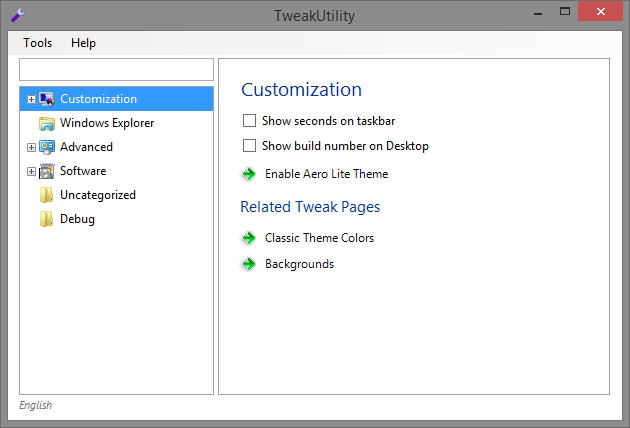
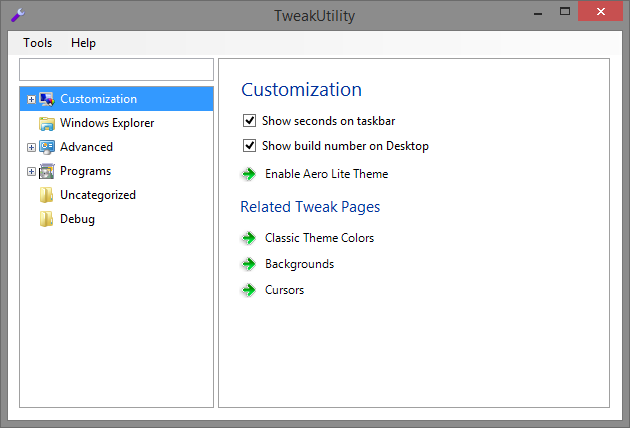
remove debug-only "English" thing in corner and update readme

diff --git a/TweakUtility/Forms/MainForm.Designer.cs b/TweakUtility/Forms/MainForm.Designer.cs
@@ -43,7 +43,6 @@ namespace TweakUtility.Forms
             this.myExtensionsToolStripMenuItem = new System.Windows.Forms.ToolStripMenuItem();
             this.helpToolStripMenuItem = new System.Windows.Forms.ToolStripMenuItem();
             this.aboutToolStripMenuItem = new System.Windows.Forms.ToolStripMenuItem();
-            this.debugTranslation = new System.Windows.Forms.Label();
             ((System.ComponentModel.ISupportInitialize)(this.splitContainer)).BeginInit();
             this.splitContainer.Panel1.SuspendLayout();
             this.splitContainer.Panel2.SuspendLayout();
@@ -71,7 +70,7 @@ namespace TweakUtility.Forms
             this.splitContainer.Panel2.Controls.Add(this.startupLabel);
             this.splitContainer.Panel2.Padding = new System.Windows.Forms.Padding(1);
             this.splitContainer.Panel2.Paint += new System.Windows.Forms.PaintEventHandler(this.SplitContainer_BorderPaint);
-            this.splitContainer.Size = new System.Drawing.Size(591, 337);
+            this.splitContainer.Size = new System.Drawing.Size(591, 350);
             this.splitContainer.SplitterDistance = 195;
             this.splitContainer.TabIndex = 1;
             this.splitContainer.SplitterMoved += new System.Windows.Forms.SplitterEventHandler(this.SplitContainer_SplitterMoved);
@@ -118,7 +117,7 @@ namespace TweakUtility.Forms
             this.startupLabel.ForeColor = System.Drawing.SystemColors.GrayText;
             this.startupLabel.Location = new System.Drawing.Point(1, 1);
             this.startupLabel.Name = "startupLabel";
-            this.startupLabel.Size = new System.Drawing.Size(390, 335);
+            this.startupLabel.Size = new System.Drawing.Size(390, 348);
             this.startupLabel.TabIndex = 3;
             this.startupLabel.Text = "Navigate to a page to get started!";
             this.startupLabel.TextAlign = System.Drawing.ContentAlignment.MiddleCenter;
@@ -153,21 +152,21 @@ namespace TweakUtility.Forms
             // preferencesToolStripMenuItem
             // 
             this.preferencesToolStripMenuItem.Name = "preferencesToolStripMenuItem";
-            this.preferencesToolStripMenuItem.Size = new System.Drawing.Size(180, 22);
+            this.preferencesToolStripMenuItem.Size = new System.Drawing.Size(135, 22);
             this.preferencesToolStripMenuItem.Text = "Preferences";
             this.preferencesToolStripMenuItem.Click += new System.EventHandler(this.PreferencesButton_Click);
             // 
             // myBackupsToolStripMenuItem
             // 
             this.myBackupsToolStripMenuItem.Name = "myBackupsToolStripMenuItem";
-            this.myBackupsToolStripMenuItem.Size = new System.Drawing.Size(180, 22);
+            this.myBackupsToolStripMenuItem.Size = new System.Drawing.Size(135, 22);
             this.myBackupsToolStripMenuItem.Text = "Backups";
             this.myBackupsToolStripMenuItem.Click += new System.EventHandler(this.BackupsButton_Click);
             // 
             // myExtensionsToolStripMenuItem
             // 
             this.myExtensionsToolStripMenuItem.Name = "myExtensionsToolStripMenuItem";
-            this.myExtensionsToolStripMenuItem.Size = new System.Drawing.Size(180, 22);
+            this.myExtensionsToolStripMenuItem.Size = new System.Drawing.Size(135, 22);
             this.myExtensionsToolStripMenuItem.Text = "Extensions";
             this.myExtensionsToolStripMenuItem.Click += new System.EventHandler(this.ExtensionsButton_Click);
             // 
@@ -182,30 +181,15 @@ namespace TweakUtility.Forms
             // aboutToolStripMenuItem
             // 
             this.aboutToolStripMenuItem.Name = "aboutToolStripMenuItem";
-            this.aboutToolStripMenuItem.Size = new System.Drawing.Size(180, 22);
+            this.aboutToolStripMenuItem.Size = new System.Drawing.Size(107, 22);
             this.aboutToolStripMenuItem.Text = "About";
             this.aboutToolStripMenuItem.Click += new System.EventHandler(this.AboutClicked);
-            // 
-            // debugTranslation
-            // 
-            this.debugTranslation.Anchor = ((System.Windows.Forms.AnchorStyles)((System.Windows.Forms.AnchorStyles.Bottom | System.Windows.Forms.AnchorStyles.Left)));
-            this.debugTranslation.AutoSize = true;
-            this.debugTranslation.Font = new System.Drawing.Font("Segoe UI", 8F, System.Drawing.FontStyle.Italic);
-            this.debugTranslation.ForeColor = System.Drawing.SystemColors.GrayText;
-            this.debugTranslation.Location = new System.Drawing.Point(8, 367);
-            this.debugTranslation.Name = "debugTranslation";
-            this.debugTranslation.Size = new System.Drawing.Size(63, 13);
-            this.debugTranslation.TabIndex = 6;
-            this.debugTranslation.Text = "LANGUAGE";
-            this.debugTranslation.TextAlign = System.Drawing.ContentAlignment.MiddleCenter;
-            this.debugTranslation.Visible = false;
             // 
             // MainForm
             // 
             this.AutoScaleMode = System.Windows.Forms.AutoScaleMode.Inherit;
             this.BackColor = System.Drawing.SystemColors.Window;
             this.ClientSize = new System.Drawing.Size(614, 389);
-            this.Controls.Add(this.debugTranslation);
             this.Controls.Add(this.splitContainer);
             this.Controls.Add(this.menuBar);
             this.DoubleBuffered = true;
@@ -245,7 +229,6 @@ namespace TweakUtility.Forms
         private System.Windows.Forms.ToolStripMenuItem myBackupsToolStripMenuItem;
         private System.Windows.Forms.ToolStripMenuItem myExtensionsToolStripMenuItem;
         private System.Windows.Forms.ToolStripMenuItem aboutToolStripMenuItem;
-        private System.Windows.Forms.Label debugTranslation;
     }
 }
 

diff --git a/TweakUtility/Forms/MainForm.cs b/TweakUtility/Forms/MainForm.cs
@@ -25,10 +25,6 @@ namespace TweakUtility.Forms
         public void Localize()
         {
             this.Text = Properties.Strings.Application_Name;
-#if DEBUG
-            this.debugTranslation.Text = Properties.Strings.DebugTranslation;
-            this.debugTranslation.Visible = true;
-#endif
         }
 
         public Control CurrentPageView => splitContainer.Panel2.Controls.Find("content", false)[0];
